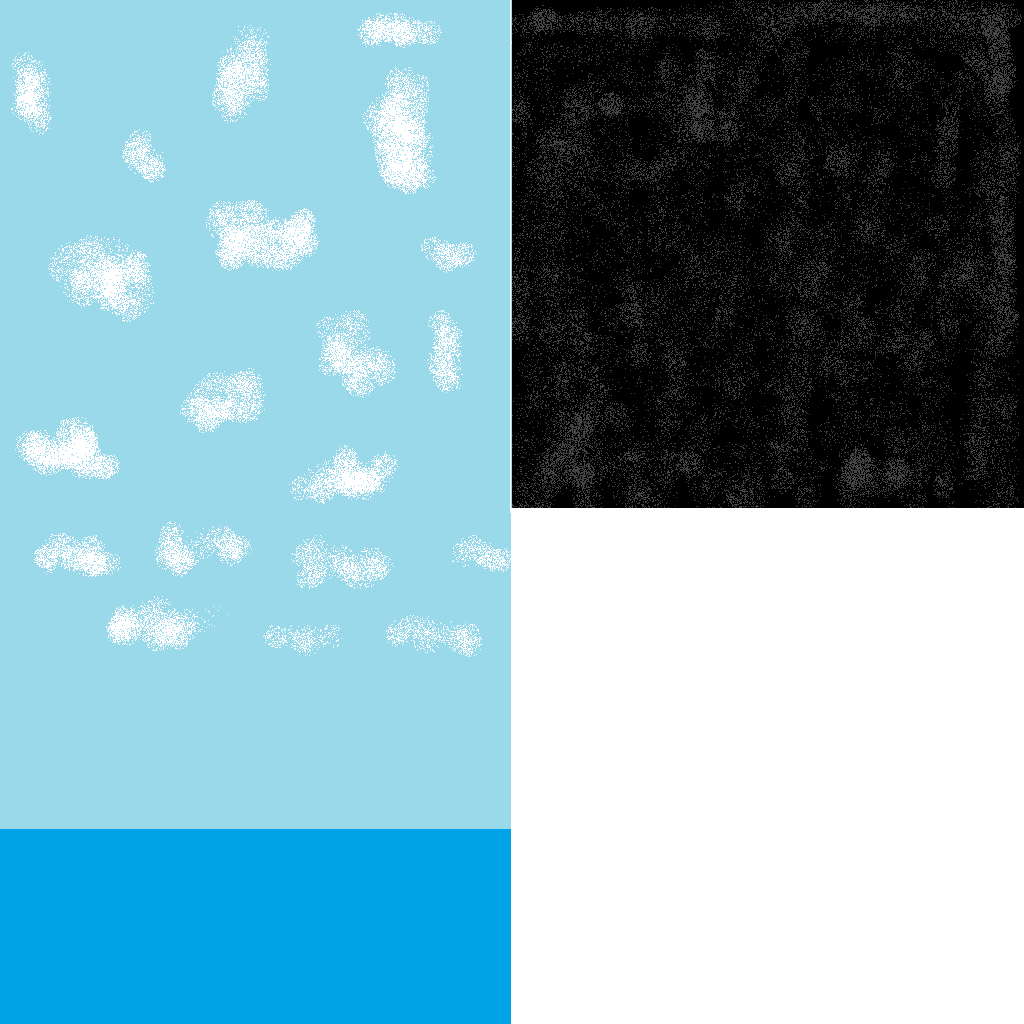
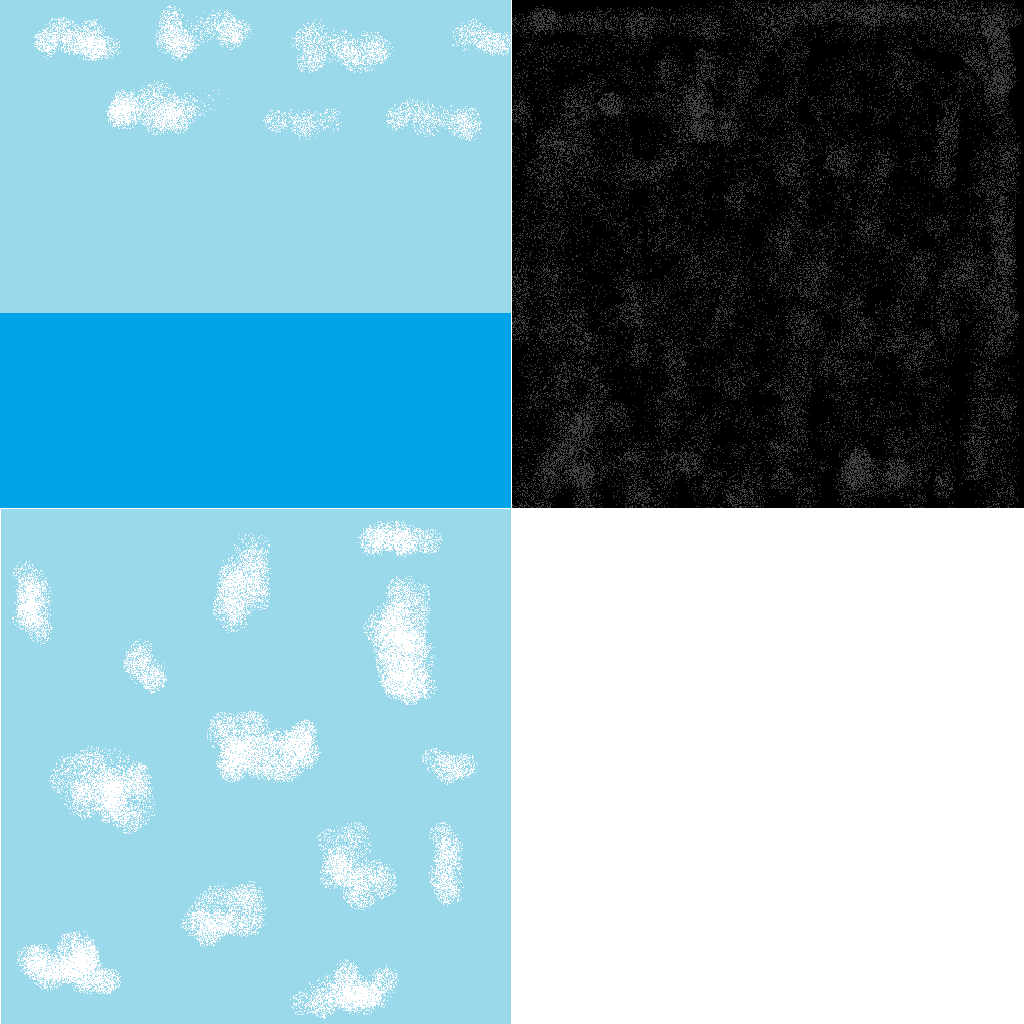
fix skyobx

diff --git a/src/net/TeSqGr/NoahCraft/Rendering/Skybox.java b/src/net/TeSqGr/NoahCraft/Rendering/Skybox.java
@@ -8,69 +8,105 @@ public class Skybox extends Mesh {
         super(vertices, texCoords, indices, skyTexture);
     }
 
-    private static float[] vertices = {
-            -100.0f,  100.0f,  100.0f,
-            -100.0f, -100.0f,  100.0f,
-            100.0f, -100.0f,  100.0f,
-            100.0f,  100.0f,  100.0f,
-            -100.0f,  100.0f, -100.0f,
-            100.0f,  100.0f, -100.0f,
+    public void update(float x){
+
+    }
+
+    private static float[] vertices = new float[] {
+            // V0
+            -100.0f, 100.0f, 100.0f,
+            // V1
+            -100.0f, -100.0f, 100.0f,
+            // V2
+            100.0f, -100.0f, 100.0f,
+            // V3
+            100.0f, 100.0f, 100.0f,
+            // V4
+            -100.0f, 100.0f, -100.0f,
+            // V5
+            100.0f, 100.0f, -100.0f,
+            // V6
             -100.0f, -100.0f, -100.0f,
+            // V7
             100.0f, -100.0f, -100.0f,
+
+            // For text coords in top face
+            // V8: V4 repeated
+            -100.0f, 100.0f, -100.0f,
+            // V9: V5 repeated
+            100.0f, 100.0f, -100.0f,
+            // V10: V0 repeated
+            -100.0f, 100.0f, 100.0f,
+            // V11: V3 repeated
+            100.0f, 100.0f, 100.0f,
+
+            // For text coords in right face
+            // V12: V3 repeated
+            100.0f, 100.0f, 100.0f,
+            // V13: V2 repeated
+            100.0f, -100.0f, 100.0f,
+
+            // For text coords in left face
+            // V14: V0 repeated
+            -100.0f, 100.0f, 100.0f,
+            // V15: V1 repeated
+            -100.0f, -100.0f, 100.0f,
+
+            // For text coords in bottom face
+            // V16: V6 repeated
+            -100.0f, -100.0f, -100.0f,
+            // V17: V7 repeated
+            100.0f, -100.0f, -100.0f,
+            // V18: V1 repeated
+            -100.0f, -100.0f, 100.0f,
+            // V19: V2 repeated
+            100.0f, -100.0f, 100.0f,
     };
 
-    private static int[] indices = {
+    private static float[] texCoords = new float[]{
+            0.0f, 0.0f,
+            0.0f, 0.5f,
+            0.5f, 0.5f,
+            0.5f, 0.0f,
+
+            0.0f, 0.0f,
+            0.5f, 0.0f,
+            0.0f, 0.5f,
+            0.5f, 0.5f,
+
+            // For text coords in top face
+            0.0f, 0.5f,
+            0.5f, 0.5f,
+            0.0f, 1.0f,
+            0.5f, 1.0f,
+
+            // For text coords in right face
+            0.0f, 0.0f,
+            0.0f, 0.5f,
+
+            // For text coords in left face
+            0.5f, 0.0f,
+            0.5f, 0.5f,
+
+            // For text coords in bottom face
+            0.5f, 0.0f,
+            1.0f, 0.0f,
+            0.5f, 0.5f,
+            1.0f, 0.5f,
+    };
+
+    
+    private static  int[] indices = new int[]{
+            // Front face
             0, 1, 3, 3, 1, 2,
-            4, 0, 3, 5, 4, 3,
-            3, 2, 7, 5, 3, 7,
-            6, 1, 0, 6, 0, 4,
-            2, 1, 6, 2, 6, 7,
-            7, 6, 4, 7, 4, 5,
-    };
-
-    private static float[] texCoords = {
-            0.0f, 0.5f,
-            0.0f, 0.0f,
-            0.5f, 0.5f,
-            0.5f, 0.0f,
-
-            0.0f, 0.5f,
-            0.0f, 0.0f,
-            0.5f, 0.5f,
-            0.5f, 0.0f,
-
-            0.0f, 0.5f,
-            0.0f, 0.0f,
-            0.5f, 0.5f,
-            0.5f, 0.0f,
-
-            0.0f, 0.5f,
-            0.0f, 0.0f,
-            0.5f, 0.5f,
-            0.5f, 0.0f,
-
-            0.0f, 0.5f,
-            0.0f, 0.0f,
-            0.5f, 0.5f,
-            0.5f, 0.0f,
-
-            0.0f, 0.5f,
-            0.0f, 0.0f,
-            0.5f, 0.5f,
-            0.5f, 0.0f,
-
-            0.0f, 0.5f,
-            0.0f, 0.0f,
-            0.5f, 0.5f,
-            0.5f, 0.0f,
-            0.0f, 0.5f,
-            0.0f, 0.0f,
-            0.5f, 0.5f,
-            0.5f, 0.0f,
-            0.0f, 0.5f,
-            0.0f, 0.0f,
-            0.5f, 0.5f,
-            0.5f, 0.0f,
-
-    };
+            // Top Face
+            8, 10, 11, 9, 8, 11,
+            // Right face
+            12, 13, 7, 5, 12, 7,
+            // Left face
+            14, 15, 6, 4, 14, 6,
+            // Bottom face
+            16, 18, 19, 17, 16, 19,
+            // Back face
+            4, 6, 7, 5, 4, 7,};
 }

diff --git a/src/net/TeSqGr/NoahCraft/Rendering/RenderFiller.java b/src/net/TeSqGr/NoahCraft/Rendering/RenderFiller.java
@@ -115,7 +115,7 @@ public class RenderFiller {
         RenderChunk renderChunk2 = new RenderChunk(solidChunk, 2, 0, texture.size);
         meshes.add(new Mesh(renderChunk2.getVertices(), renderChunk2.getTexCoords(), renderChunk2.getIndices(), texture));
 
-        oneBlockChunk[20] = 1;
+        oneBlockChunk[20] = 2;
         RenderChunk renderChunk3 = new RenderChunk(oneBlockChunk, 4, 0, texture.size);
         meshes.add(new Mesh(renderChunk3.getVertices(), renderChunk3.getTexCoords(), renderChunk3.getIndices(), texture));
     }
